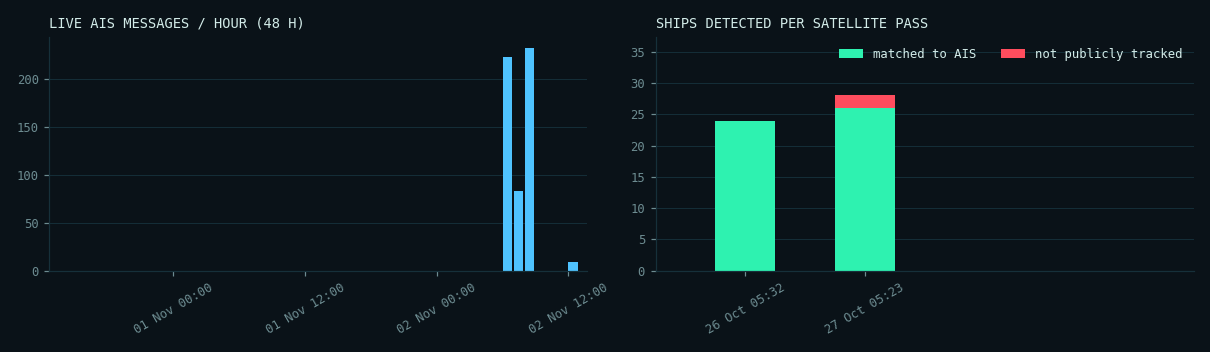
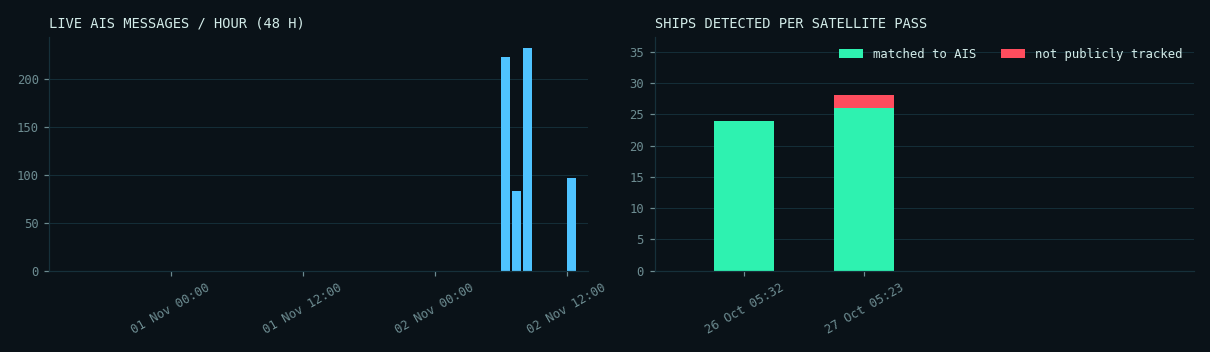
Automatic site update 2026-11-02 12:57 UTC

diff --git a/docs/denmark/index.html b/docs/denmark/index.html
@@ -83,13 +83,13 @@ footer{border-top:1px solid var(--line);padding:18px 0 28px;font:12px/1.6 var(--
   <div><div class="kicker">SAR &times; AIS &middot; MARITIME AWARENESS</div><div class="title">DARK VESSEL <b>DETECTION</b></div></div></a>
  <div class="status"><span class="pill"><span class="dot live"></span>AIS FEED <strong>LIVE</strong></span>
   <span class="pill">UTC <strong id="utc">--:--:--</strong></span>
-  <span class="pill">UPDATED <strong>02 Nov 12:42</strong></span></div>
+  <span class="pill">UPDATED <strong>02 Nov 12:58</strong></span></div>
 </div><nav class="tabs"><a class="" href="../index.html">OVERVIEW</a><a class="" href="../mumbai/index.html">MUMBAI</a><a class="on" href="../denmark/index.html">DENMARK</a><a class="" href="../nn/index.html">NEURAL NET</a><a class="" href="../demo/index.html">SIMULATION</a></nav></div></header>
 <main class="wrap"><div class="coords">SECTOR // DENMARK &middot; 55.55&ndash;55.85&deg;N &middot; 12.55&ndash;12.95&deg;E</div>
 <h1>Oresund, Copenhagen (Denmark/Sweden)</h1><p class="lede">Validation area. Sentinel-1 images it almost daily and coastal AIS coverage is dense, so the full match between radar and AIS can be shown and checked.</p>
 <div class="grid">
  <div class="panel"><div class="label">Live AIS feed</div><div class="value small"><span class='ok'>RECEIVING</span></div><div class="muted mono" style="font-size:12px;margin-top:6px">last message 0 min ago</div></div>
- <div class="panel"><div class="label">Ships broadcasting &middot; 30 min</div><div class="value cyan">9</div></div>
+ <div class="panel"><div class="label">Ships broadcasting &middot; 30 min</div><div class="value cyan">50</div></div>
  <div class="panel"><div class="label">Matched &middot; latest pass</div><div class="value ">26</div></div>
  <div class="panel"><div class="label">Not tracked &middot; high confidence</div><div class="value red">0</div></div>
  <div class="panel"><div class="label">Not tracked &middot; low confidence</div><div class="value amber">2</div></div>
@@ -98,7 +98,7 @@ footer{border-top:1px solid var(--line);padding:18px 0 28px;font:12px/1.6 var(--
 <div class="legend"><span><i style="background:var(--green)"></i>matched to AIS</span><span><i style="background:var(--red)"></i>not tracked &middot; high confidence</span>
 <span><i style="background:var(--amber)"></i>not tracked &middot; low confidence</span><span><i style="background:var(--cyan)"></i>live AIS position</span></div>
 <div id="map" class="map"></div><script>
-const D=[{"lon": 12.574560869565218, "lat": 55.849597826086956, "length_m": 72.681575622935, "score": 0.6554655519501138, "shore_km": 0.14150886088341372, "status": "matched", "reason": "", "confidence": "high", "crop": "", "ship_prob": 0.9335045218467712}, {"lon": 12.704759174311928, "lat": 55.82280412844037, "length_m": 364.1071436957287, "score": 0.9904753373251979, "shore_km": 9.407061429825474, "status": "matched", "reason": "", "confidence": "high", "crop": "", "ship_prob": 0.9868959784507751}, {"lon": 12.786416463414636, "lat": 55.804669512195126, "length_m": 155.0522474362954, "score": 0.9999646038759398, "shore_km": 4.658419014138412, "status": "matched", "reason": "", "confidence": "high", "crop": "", "ship_prob": 0.9993557333946228}, {"lon": 12.88229375, "lat": 55.849146875, "length_m": 53.38783327710226, "score": 0.9899546194309776, "shore_km": 0.9067240720863213, "status": "candidate", "reason": "same_spot_in_another_pass", "confidence": "low", "crop": "crops/S1-Oresund-20261027_37.png", "ship_prob": 0.7905591130256653}, {"lon": 12.604004166666668, "lat": 55.75985, "length_m": 141.84238362073958, "score": 0.6867268898684522, "shore_km": 0.07168283192738693, "status": "matched", "reason": "", "confidence": "high", "crop": "", "ship_prob": 0.5051270127296448}, {"lon": 12.605736764705883, "lat": 55.75241323529412, "length_m": 122.11483240811877, "score": 0.9136889320646264, "shore_km": 0.6454382429486746, "status": "candidate", "reason": "same_spot_in_another_pass", "confidence": "low", "crop": "crops/S1-Oresund-20261027_77.png", "ship_prob": 0.7927113175392151}, {"lon": 12.703722571428573, "lat": 55.77917742857143, "length_m": 223.0817648726515, "score": 0.9996320924909895, "shore_km": 5.943270442766068, "status": "matched", "reason": "", "confidence": "high", "crop": "", "ship_prob": 0.9938097596168518}, {"lon": 12.902757692307693, "lat": 55.75654230769231, "length_m": 65.46226537445588, "score": 0.7187896049600956, "shore_km": 0.03584141596369347, "status": "matched", "reason": "", "confidence": "high", "crop": "", "ship_prob": 0.8691755533218384}, {"lon": 12.589922222222222, "lat": 55.725764814814816, "length_m": 146.45480845096748, "score": 0.9957587025210503, "shore_km": 0.034771280891766385, "status": "matched", "reason": "", "confidence": "high", "crop": "", "ship_prob": 0.9983701109886169}, {"lon": 12.598472047244096, "lat": 55.72077913385827, "length_m": 207.62671185403417, "score": 0.609772230082722, "shore_km": 0.14016751439395445, "status": "matched", "reason": "", "confidence": "high", "crop": "", "ship_prob": 0.6074324250221252}, {"lon": 12.589218, "lat": 55.712854, "length_m": 90.49550243938293, "score": 0.6486089656085543, "shore_km": 0.043464101114707984, "status": "matched", "reason": "", "confidence": "high", "crop": "", "ship_prob": 0.9998902082443237}, {"lon": 12.59024090909091, "lat": 55.71147090909091, "length_m": 162.54265478639104, "score": 1.0, "shore_km": 0.06146752127277559, "status": "matched", "reason": "", "confidence": "high", "crop": "", "ship_prob": 0.9999992847442627}, {"lon": 12.597835937500001, "lat": 55.701648437500005, "length_m": 133.31776511703256, "score": 0.9396217092764791, "shore_km": 0.06789309632894441, "status": "matched", "reason": "", "confidence": "high", "crop": "", "ship_prob": 0.9999727010726929}, {"lon": 12.60914, "lat": 55.69712, "length_m": 65.36743236464424, "score": 0.7827588237578229, "shore_km": 0.03134240904220623, "status": "matched", "reason": "", "confidence": "high", "crop": "", "ship_prob": 0.9867132902145386}, {"lon": 12.668552272727274, "lat": 55.72007840909091, "length_m": 207.26605497726354, "score": 0.6251792307103263, "shore_km": 0.03584141596369347, "status": "matched", "reason": "", "confidence": "high", "crop": "", "ship_prob": 0.9087074398994446}, {"lon": 12.5996, "lat": 55.68885, "length_m": 40.00855981470757, "score": 0.7664068666153926, "shore_km": 0.024587008509110237, "status": "matched", "reason": "", "confidence": "high", "crop": "", "ship_prob": 0.9766618013381958}, {"lon": 12.595819230769232, "lat": 55.67989871794872, "length_m": 127.62371588738732, "score": 0.9426870407335851, "shore_km": 0.05068741655051085, "status": "matched", "reason": "", "confidence": "high", "crop": "", "ship_prob": 0.9998841285705566}, {"lon": 12.594722222222224, "lat": 55.67918888888889, "length_m": 40.64467714079742, "score": 0.7639524834029205, "shore_km": 0.043464101114707984, "status": "matched", "reason": "", "confidence": "high", "crop": "", "ship_prob": 0.9999454021453857}, {"lon": 12.610660714285714, "lat": 55.69618571428572, "length_m": 94.51225356515693, "score": 0.9621795096736379, "shore_km": 0.03134240904220623, "status": "matched", "reason": "", "confidence": "high", "crop": "", "ship_prob": 0.999042809009552}, {"lon": 12.649045000000001, "lat": 55.692155, "length_m": 80.63364746000343, "score": 0.8515033668168979, "shore_km": 0.8863693295037299, "status": "matched", "reason": "", "confidence": "high", "crop": "", "ship_prob": 0.4333752989768982}, {"lon": 12.630751724137932, "lat": 55.685453448275865, "length_m": 125.00287123881988, "score": 0.93629426700422, "shore_km": 0.043464101114707984, "status": "matched", "reason": "", "confidence": "high", "crop": "", "ship_prob": 0.9975905418395996}, {"lon": 12.634987254901962, "lat": 55.677338235294116, "length_m": 276.5478352749318, "score": 0.7686103584091717, "shore_km": 0.024587008509110237, "status": "matched", "reason": "", "confidence": "high", "crop": "", "ship_prob": 0.9729636907577515}, {"lon": 12.68766150442478, "lat": 55.69581814159292, "length_m": 176.8074930452176, "score": 0.923202226335388, "shore_km": 2.6834920471942074, "status": "matched", "reason": "", "confidence": "high", "crop": "", "ship_prob": 0.8427141904830933}, {"lon": 12.65826847826087, "lat": 55.63610108695652, "length_m": 174.21377549767067, "score": 0.9833187000337672, "shore_km": 0.043464101114707984, "status": "matched", "reason": "", "confidence": "high", "crop": "", "ship_prob": 0.9998973608016968}, {"lon": 12.680683333333334, "lat": 55.610910000000004, "length_m": 74.22790892756812, "score": 0.6314184609397504, "shore_km": 0.03134240904220623, "status": "matched", "reason": "", "confidence": "high", "crop": "", "ship_prob": 0.44054293632507324}, {"lon": 12.868352132196163, "lat": 55.60022420042644, "length_m": 299.20726350177785, "score": 0.9999960398718075, "shore_km": 2.8169298200726325, "status": "matched", "reason": "", "confidence": "high", "crop": "", "ship_prob": 0.9967911839485168}, {"lon": 12.680875, "lat": 55.59323, "length_m": 95.51211981545671, "score": 0.7585723176580392, "shore_km": 0.03584141596369347, "status": "matched", "reason": "", "confidence": "high", "crop": "", "ship_prob": 0.797581672668457}, {"lon": 12.706387741935485, "lat": 55.56306903225806, "length_m": 301.4640427512081, "score": 0.9999731380181186, "shore_km": 3.1965238712919084, "status": "matched", "reason": "", "confidence": "high", "crop": "", "ship_prob": 0.9941650032997131}],LIVE=[{"lon": 12.823661666666668, "lat": 55.866413333333334, "sog": 0.1, "age": 1}, {"lon": 12.996228333333333, "lat": 55.62329, "sog": 0.0, "age": 0}, {"lon": 12.698755, "lat": 55.60193, "sog": 12.8, "age": 0}, {"lon": 12.730118333333333, "lat": 55.703245, "sog": 0.0, "age": 0}, {"lon": 12.744415, "lat": 55.99327666666667, "sog": 0.0, "age": 0}, {"lon": 12.6379, "lat": 55.888391666666664, "sog": 6.5, "age": 0}, {"lon": 12.572771666666666, "lat": 55.85082833333333, "sog": 0.0, "age": 0}, {"lon": 12.653413333333333, "lat": 55.876268333333336, "sog": 9.0, "age": 0}, {"lon": 12.693898333333333, "lat": 55.57119, "sog": 20.0, "age": 0}],B=[[55.55,12.55],[55.85,12.95]];const m=L.map('map',{zoomSnap:.25}).fitBounds(B);
+const D=[{"lon": 12.574560869565218, "lat": 55.849597826086956, "length_m": 72.681575622935, "score": 0.6554655519501138, "shore_km": 0.14150886088341372, "status": "matched", "reason": "", "confidence": "high", "crop": "", "ship_prob": 0.9335045218467712}, {"lon": 12.704759174311928, "lat": 55.82280412844037, "length_m": 364.1071436957287, "score": 0.9904753373251979, "shore_km": 9.407061429825474, "status": "matched", "reason": "", "confidence": "high", "crop": "", "ship_prob": 0.9868959784507751}, {"lon": 12.786416463414636, "lat": 55.804669512195126, "length_m": 155.0522474362954, "score": 0.9999646038759398, "shore_km": 4.658419014138412, "status": "matched", "reason": "", "confidence": "high", "crop": "", "ship_prob": 0.9993557333946228}, {"lon": 12.88229375, "lat": 55.849146875, "length_m": 53.38783327710226, "score": 0.9899546194309776, "shore_km": 0.9067240720863213, "status": "candidate", "reason": "same_spot_in_another_pass", "confidence": "low", "crop": "crops/S1-Oresund-20261027_37.png", "ship_prob": 0.7905591130256653}, {"lon": 12.604004166666668, "lat": 55.75985, "length_m": 141.84238362073958, "score": 0.6867268898684522, "shore_km": 0.07168283192738693, "status": "matched", "reason": "", "confidence": "high", "crop": "", "ship_prob": 0.5051270127296448}, {"lon": 12.605736764705883, "lat": 55.75241323529412, "length_m": 122.11483240811877, "score": 0.9136889320646264, "shore_km": 0.6454382429486746, "status": "candidate", "reason": "same_spot_in_another_pass", "confidence": "low", "crop": "crops/S1-Oresund-20261027_77.png", "ship_prob": 0.7927113175392151}, {"lon": 12.703722571428573, "lat": 55.77917742857143, "length_m": 223.0817648726515, "score": 0.9996320924909895, "shore_km": 5.943270442766068, "status": "matched", "reason": "", "confidence": "high", "crop": "", "ship_prob": 0.9938097596168518}, {"lon": 12.902757692307693, "lat": 55.75654230769231, "length_m": 65.46226537445588, "score": 0.7187896049600956, "shore_km": 0.03584141596369347, "status": "matched", "reason": "", "confidence": "high", "crop": "", "ship_prob": 0.8691755533218384}, {"lon": 12.589922222222222, "lat": 55.725764814814816, "length_m": 146.45480845096748, "score": 0.9957587025210503, "shore_km": 0.034771280891766385, "status": "matched", "reason": "", "confidence": "high", "crop": "", "ship_prob": 0.9983701109886169}, {"lon": 12.598472047244096, "lat": 55.72077913385827, "length_m": 207.62671185403417, "score": 0.609772230082722, "shore_km": 0.14016751439395445, "status": "matched", "reason": "", "confidence": "high", "crop": "", "ship_prob": 0.6074324250221252}, {"lon": 12.589218, "lat": 55.712854, "length_m": 90.49550243938293, "score": 0.6486089656085543, "shore_km": 0.043464101114707984, "status": "matched", "reason": "", "confidence": "high", "crop": "", "ship_prob": 0.9998902082443237}, {"lon": 12.59024090909091, "lat": 55.71147090909091, "length_m": 162.54265478639104, "score": 1.0, "shore_km": 0.06146752127277559, "status": "matched", "reason": "", "confidence": "high", "crop": "", "ship_prob": 0.9999992847442627}, {"lon": 12.597835937500001, "lat": 55.701648437500005, "length_m": 133.31776511703256, "score": 0.9396217092764791, "shore_km": 0.06789309632894441, "status": "matched", "reason": "", "confidence": "high", "crop": "", "ship_prob": 0.9999727010726929}, {"lon": 12.60914, "lat": 55.69712, "length_m": 65.36743236464424, "score": 0.7827588237578229, "shore_km": 0.03134240904220623, "status": "matched", "reason": "", "confidence": "high", "crop": "", "ship_prob": 0.9867132902145386}, {"lon": 12.668552272727274, "lat": 55.72007840909091, "length_m": 207.26605497726354, "score": 0.6251792307103263, "shore_km": 0.03584141596369347, "status": "matched", "reason": "", "confidence": "high", "crop": "", "ship_prob": 0.9087074398994446}, {"lon": 12.5996, "lat": 55.68885, "length_m": 40.00855981470757, "score": 0.7664068666153926, "shore_km": 0.024587008509110237, "status": "matched", "reason": "", "confidence": "high", "crop": "", "ship_prob": 0.9766618013381958}, {"lon": 12.595819230769232, "lat": 55.67989871794872, "length_m": 127.62371588738732, "score": 0.9426870407335851, "shore_km": 0.05068741655051085, "status": "matched", "reason": "", "confidence": "high", "crop": "", "ship_prob": 0.9998841285705566}, {"lon": 12.594722222222224, "lat": 55.67918888888889, "length_m": 40.64467714079742, "score": 0.7639524834029205, "shore_km": 0.043464101114707984, "status": "matched", "reason": "", "confidence": "high", "crop": "", "ship_prob": 0.9999454021453857}, {"lon": 12.610660714285714, "lat": 55.69618571428572, "length_m": 94.51225356515693, "score": 0.9621795096736379, "shore_km": 0.03134240904220623, "status": "matched", "reason": "", "confidence": "high", "crop": "", "ship_prob": 0.999042809009552}, {"lon": 12.649045000000001, "lat": 55.692155, "length_m": 80.63364746000343, "score": 0.8515033668168979, "shore_km": 0.8863693295037299, "status": "matched", "reason": "", "confidence": "high", "crop": "", "ship_prob": 0.4333752989768982}, {"lon": 12.630751724137932, "lat": 55.685453448275865, "length_m": 125.00287123881988, "score": 0.93629426700422, "shore_km": 0.043464101114707984, "status": "matched", "reason": "", "confidence": "high", "crop": "", "ship_prob": 0.9975905418395996}, {"lon": 12.634987254901962, "lat": 55.677338235294116, "length_m": 276.5478352749318, "score": 0.7686103584091717, "shore_km": 0.024587008509110237, "status": "matched", "reason": "", "confidence": "high", "crop": "", "ship_prob": 0.9729636907577515}, {"lon": 12.68766150442478, "lat": 55.69581814159292, "length_m": 176.8074930452176, "score": 0.923202226335388, "shore_km": 2.6834920471942074, "status": "matched", "reason": "", "confidence": "high", "crop": "", "ship_prob": 0.8427141904830933}, {"lon": 12.65826847826087, "lat": 55.63610108695652, "length_m": 174.21377549767067, "score": 0.9833187000337672, "shore_km": 0.043464101114707984, "status": "matched", "reason": "", "confidence": "high", "crop": "", "ship_prob": 0.9998973608016968}, {"lon": 12.680683333333334, "lat": 55.610910000000004, "length_m": 74.22790892756812, "score": 0.6314184609397504, "shore_km": 0.03134240904220623, "status": "matched", "reason": "", "confidence": "high", "crop": "", "ship_prob": 0.44054293632507324}, {"lon": 12.868352132196163, "lat": 55.60022420042644, "length_m": 299.20726350177785, "score": 0.9999960398718075, "shore_km": 2.8169298200726325, "status": "matched", "reason": "", "confidence": "high", "crop": "", "ship_prob": 0.9967911839485168}, {"lon": 12.680875, "lat": 55.59323, "length_m": 95.51211981545671, "score": 0.7585723176580392, "shore_km": 0.03584141596369347, "status": "matched", "reason": "", "confidence": "high", "crop": "", "ship_prob": 0.797581672668457}, {"lon": 12.706387741935485, "lat": 55.56306903225806, "length_m": 301.4640427512081, "score": 0.9999731380181186, "shore_km": 3.1965238712919084, "status": "matched", "reason": "", "confidence": "high", "crop": "", "ship_prob": 0.9941650032997131}],LIVE=[{"lon": 12.996228333333333, "lat": 55.62329, "sog": 0.0, "age": 16}, {"lon": 12.830413333333333, "lat": 55.85599666666667, "sog": 0.0, "age": 15}, {"lon": 12.832898333333333, "lat": 55.85851, "sog": 0.0, "age": 15}, {"lon": 12.990338333333334, "lat": 55.62685333333333, "sog": 0.0, "age": 14}, {"lon": 12.502345, "lat": 55.61085666666667, "sog": 2.8, "age": 14}, {"lon": 12.719368333333334, "lat": 55.754315, "sog": 0.0, "age": 13}, {"lon": 12.638415, "lat": 55.884505, "sog": 6.7, "age": 13}, {"lon": 12.480858333333334, "lat": 55.60676333333333, "sog": 0.0, "age": 13}, {"lon": 12.744426666666667, "lat": 55.993296666666666, "sog": 0.0, "age": 13}, {"lon": 12.701091666666667, "lat": 55.51907833333333, "sog": 7.8, "age": 12}, {"lon": 12.828323333333334, "lat": 55.86138166666667, "sog": 0.0, "age": 12}, {"lon": 12.67691, "lat": 55.59394666666667, "sog": 0.0, "age": 12}, {"lon": 12.598645, "lat": 55.710765, "sog": 0.0, "age": 12}, {"lon": 12.828776666666666, "lat": 55.85998, "sog": 0.0, "age": 6}, {"lon": 12.83193, "lat": 55.85404333333334, "sog": 0.0, "age": 6}, {"lon": 12.989866666666668, "lat": 55.62728333333334, "sog": 0.0, "age": 6}, {"lon": 12.646905, "lat": 55.67737833333333, "sog": 0.0, "age": 5}, {"lon": 13.020836666666666, "lat": 55.635345, "sog": 0.0, "age": 5}, {"lon": 13.05851, "lat": 55.67565333333334, "sog": 0.0, "age": 4}, {"lon": 12.999795, "lat": 55.61836666666667, "sog": 0.0, "age": 4}, {"lon": 12.835011666666666, "lat": 55.85982333333333, "sog": 0.2, "age": 4}, {"lon": 12.695631666666666, "lat": 55.47009833333333, "sog": 11.0, "age": 4}, {"lon": 12.59949, "lat": 55.710591666666666, "sog": 0.0, "age": 4}, {"lon": 12.705350000000001, "lat": 55.558186666666664, "sog": 12.8, "age": 3}, {"lon": 12.60354, "lat": 55.76058833333333, "sog": 0.0, "age": 3}, {"lon": 12.680061666666667, "lat": 55.59288, "sog": 0.0, "age": 3}, {"lon": 12.67612, "lat": 55.59363, "sog": 0.0, "age": 2}, {"lon": 12.630695, "lat": 55.68980333333333, "sog": 0.0, "age": 2}, {"lon": 12.70927, "lat": 55.461915, "sog": 10.8, "age": 2}, {"lon": 12.66247, "lat": 55.844561666666664, "sog": 8.5, "age": 2}, {"lon": 12.824866666666667, "lat": 55.86593333333334, "sog": 0.0, "age": 2}, {"lon": 12.744433333333335, "lat": 55.993225, "sog": 0.1, "age": 2}, {"lon": 12.572758333333333, "lat": 55.850825, "sog": 0.0, "age": 2}, {"lon": 12.64328, "lat": 55.67908, "sog": 0.1, "age": 2}, {"lon": 12.922258333333334, "lat": 55.608444999999996, "sog": 24.3, "age": 2}, {"lon": 12.9392, "lat": 55.66875666666667, "sog": 11.5, "age": 2}, {"lon": 12.935475, "lat": 55.69256333333333, "sog": 0.0, "age": 2}, {"lon": 12.625285, "lat": 55.69106, "sog": 0.0, "age": 1}, {"lon": 12.833266666666667, "lat": 55.8559, "sog": 0.0, "age": 1}, {"lon": 12.720936666666667, "lat": 55.70237833333333, "sog": 6.9, "age": 0}, {"lon": 12.48246, "lat": 55.6014, "sog": 0.0, "age": 0}, {"lon": 12.677548333333334, "lat": 55.934713333333335, "sog": 0.0, "age": 0}, {"lon": 12.825346666666666, "lat": 55.865505, "sog": 0.0, "age": 0}, {"lon": 12.490216666666667, "lat": 55.517925, "sog": 0.0, "age": 0}, {"lon": 12.833716666666668, "lat": 55.855716666666666, "sog": 0.0, "age": 0}, {"lon": 13.033805, "lat": 55.62455333333333, "sog": 0.0, "age": 0}, {"lon": 12.684249999999999, "lat": 55.943086666666666, "sog": 0.0, "age": 0}, {"lon": 12.823631666666667, "lat": 55.86645166666666, "sog": 0.1, "age": 0}, {"lon": 12.680190000000001, "lat": 55.592825, "sog": 0.0, "age": 0}, {"lon": 12.481701666666668, "lat": 55.60067333333333, "sog": 0.0, "age": 0}],B=[[55.55,12.55],[55.85,12.95]];const m=L.map('map',{zoomSnap:.25}).fitBounds(B);
 // re-fit once layout has settled: if the container had no size when the map was created, Leaflet falls back to zoom 0
 const refit=()=>{m.invalidateSize();m.fitBounds(B);};setTimeout(refit,0);window.addEventListener('load',refit);
 // standard OSM tiles (no API key), turned into a dark "radar console" basemap with a CSS filter (.radar-tiles)
@@ -116,7 +116,7 @@ L.control.layers(null,{'Radar detections (selected pass)':det,'Live AIS, last 30
 </script>
 <h2>Pass log</h2><div class='tablewrap'><table><thead><tr><th>pass (UTC)</th><th>ships</th><th>matched</th><th>not tracked</th><th>low conf.</th><th>match rate</th><th>AIS msgs</th></tr></thead><tbody><tr><td>2026-10-27 05:23 UTC</td><td>28</td><td class='ok'>26</td><td class='bad'>0</td><td style='color:var(--amber)'>2</td><td>93%</td><td>10687</td></tr><tr><td>2026-10-26 05:32 UTC</td><td>24</td><td class='ok'>24</td><td class='bad'>0</td><td style='color:var(--amber)'>0</td><td>100%</td><td>11603</td></tr></tbody></table></div>
 <h2>Telemetry</h2><img class="chart" src="charts.png" alt="AIS messages per hour and ships detected per pass">
-<p class="muted mono" style="font-size:12px">Feed gaps in the last 24 h: 3 (316 min) &middot; AIS messages in the last hour: 9</p>
+<p class="muted mono" style="font-size:12px">Feed gaps in the last 24 h: 4 (322 min) &middot; AIS messages in the last hour: 96</p>
 <h2>Recent Sentinel-1 acquisitions</h2><ul class="acq"><li>2026-11-02 05:23 UTC</li><li>2026-11-01 16:44 UTC</li><li>2026-11-01 05:31 UTC</li><li>2026-10-31 16:52 UTC</li><li>2026-10-30 17:00 UTC</li><li>2026-10-27 05:23 UTC</li><li>2026-10-26 05:32 UTC</li><li>2026-10-25 16:52 UTC</li></ul></main>
 <footer><div class="wrap">Data: Copernicus Sentinel-1 (ESA) &middot; AIS via aisstream.io and the Danish Maritime Authority &middot;
 coastlines, structures and basemap &copy; OpenStreetMap contributors. Flags are candidates for review, not accusations.</div></footer>

diff --git a/docs/index.html b/docs/index.html
@@ -83,7 +83,7 @@ footer{border-top:1px solid var(--line);padding:18px 0 28px;font:12px/1.6 var(--
   <div><div class="kicker">SAR &times; AIS &middot; MARITIME AWARENESS</div><div class="title">DARK VESSEL <b>DETECTION</b></div></div></a>
  <div class="status"><span class="pill"><span class="dot live"></span>AIS FEED <strong>LIVE</strong></span>
   <span class="pill">UTC <strong id="utc">--:--:--</strong></span>
-  <span class="pill">UPDATED <strong>02 Nov 12:42</strong></span></div>
+  <span class="pill">UPDATED <strong>02 Nov 12:58</strong></span></div>
 </div><nav class="tabs"><a class="on" href="index.html">OVERVIEW</a><a class="" href="mumbai/index.html">MUMBAI</a><a class="" href="denmark/index.html">DENMARK</a><a class="" href="nn/index.html">NEURAL NET</a><a class="" href="demo/index.html">SIMULATION</a></nav></div></header>
 <main class="wrap"><div class="coords">SYSTEM OVERVIEW</div>
 <h1>Ships the radar sees that nobody is tracking</h1>
@@ -91,7 +91,7 @@ footer{border-top:1px solid var(--line);padding:18px 0 28px;font:12px/1.6 var(--
 This system compares the two for each processed Sentinel-1 pass and lists the ships that appear on radar with no matching AIS signal.</p>
 <div class="grid" style="margin-top:18px"><div class="panel"><div class="label">Satellite passes processed</div><div class="value ">3</div></div><div class="panel"><div class="label">Ships matched to AIS</div><div class="value ">50</div></div>
 <div class="panel"><div class="label">Not tracked &middot; high confidence</div><div class="value red">0</div></div><div class="panel"><div class="label">Not tracked &middot; low confidence</div><div class="value amber">117</div></div>
-<div class="panel"><div class="label">Broadcasting now &middot; 30 min</div><div class="value cyan">9</div></div></div>
+<div class="panel"><div class="label">Broadcasting now &middot; 30 min</div><div class="value cyan">50</div></div></div>
 <p class="muted" style="font-size:13px;margin-top:10px"><b>High confidence</b> = no AIS ship nearby although the AIS feed was healthy and the
 target is within receiver range, and it is not at a spot where something was also seen on another pass. Everything else is
 <b>low confidence</b>: the data cannot support calling it dark (for example Mumbai, where no AIS was available for the pass at all).</p>
@@ -112,14 +112,14 @@ watching the catalogue for new passes and processing them automatically is the n
 <div class="kv"><span>ships matched to AIS</span><span class="ok">50</span></div>
 <div class="kv"><span>not tracked, high confidence</span><span class="bad">0</span></div>
 <div class="kv"><span>not tracked, low confidence</span><span style="color:var(--amber)">2</span></div>
-<div class="kv"><span>broadcasting now (30 min)</span><span style="color:var(--cyan)">9</span></div>
+<div class="kv"><span>broadcasting now (30 min)</span><span style="color:var(--cyan)">50</span></div>
 <div class="go">OPEN SECTOR &rarr;</div></a></div>
 <h2>Read before trusting a flag</h2>
 <div class="alert"><b>"Not publicly tracked" is not "switched off".</b> Small boats often carry no public AIS, free AIS comes from coastal
 receivers with limited range, and ships under about 40 m are not reliably visible to the satellite. Low-confidence flags are the ones the
 data cannot support: beyond receiver range, during an AIS feed gap, or with no AIS recorded.</div>
 <h2>Automatic runs</h2><p class="muted mono" style="font-size:12.5px;margin-top:-4px">Each row is one automatic website rebuild, with the live AIS counts at that moment. Newest first.</p>
-<div class="tablewrap"><table><thead><tr><th>run (UTC)</th><th>mumbai live</th><th>mumbai msg/h</th><th>denmark live</th><th>denmark msg/h</th></tr></thead><tbody><tr><td>2026-11-02 12:42</td><td>0</td><td>0</td><td>9</td><td>9</td></tr><tr><td>2026-11-02 08:09</td><td>0</td><td>0</td><td>62</td><td>171</td></tr><tr><td>2026-11-02 07:53</td><td>0</td><td>0</td><td>19</td><td>49</td></tr><tr><td>2026-11-02 07:39</td><td>0</td><td>0</td><td>0</td><td>166</td></tr><tr><td>2026-11-02 07:27</td><td>0</td><td>0</td><td>0</td><td>222</td></tr><tr><td>2026-11-02 06:48</td><td>0</td><td>0</td><td>58</td><td>148</td></tr><tr><td>2026-11-02 06:33</td><td>0</td><td>0</td><td>5</td><td>6</td></tr><tr><td>2026-11-02 06:29</td><td>0</td><td>0</td><td>0</td><td>0</td></tr><tr><td>2026-11-02 06:25</td><td>0</td><td>0</td><td>0</td><td>0</td></tr><tr><td>2026-11-02 06:20</td><td>0</td><td>0</td><td>0</td><td>0</td></tr><tr><td>2026-11-02 06:10</td><td>0</td><td>0</td><td>0</td><td>0</td></tr><tr><td>2026-11-02 05:55</td><td>0</td><td>0</td><td>36</td><td>341</td></tr><tr><td>2026-11-02 05:40</td><td>0</td><td>0</td><td>38</td><td>353</td></tr><tr><td>2026-11-02 05:24</td><td>0</td><td>0</td><td>35</td><td>311</td></tr><tr><td>2026-11-02 05:09</td><td>0</td><td>0</td><td>36</td><td>222</td></tr><tr><td>2026-11-02 04:54</td><td>0</td><td>0</td><td>36</td><td>144</td></tr><tr><td>2026-11-02 04:50</td><td>0</td><td>0</td><td>33</td><td>110</td></tr><tr><td>2026-11-02 04:49</td><td>0</td><td>0</td><td>33</td><td>110</td></tr><tr><td>2026-11-02 04:49</td><td>0</td><td>0</td><td>32</td><td>108</td></tr><tr><td>2026-11-02 04:48</td><td>0</td><td>0</td><td>32</td><td>106</td></tr><tr><td>2026-11-02 04:47</td><td>0</td><td>0</td><td>32</td><td>104</td></tr><tr><td>2026-11-02 04:47</td><td>0</td><td>0</td><td>32</td><td>98</td></tr><tr><td>2026-11-02 04:27</td><td>0</td><td>0</td><td>6</td><td>6</td></tr><tr><td>2026-11-02 04:26</td><td>0</td><td>0</td><td>4</td><td>4</td></tr></tbody></table></div></main>
+<div class="tablewrap"><table><thead><tr><th>run (UTC)</th><th>mumbai live</th><th>mumbai msg/h</th><th>denmark live</th><th>denmark msg/h</th></tr></thead><tbody><tr><td>2026-11-02 12:58</td><td>0</td><td>0</td><td>50</td><td>96</td></tr><tr><td>2026-11-02 12:42</td><td>0</td><td>0</td><td>9</td><td>9</td></tr><tr><td>2026-11-02 08:09</td><td>0</td><td>0</td><td>62</td><td>171</td></tr><tr><td>2026-11-02 07:53</td><td>0</td><td>0</td><td>19</td><td>49</td></tr><tr><td>2026-11-02 07:39</td><td>0</td><td>0</td><td>0</td><td>166</td></tr><tr><td>2026-11-02 07:27</td><td>0</td><td>0</td><td>0</td><td>222</td></tr><tr><td>2026-11-02 06:48</td><td>0</td><td>0</td><td>58</td><td>148</td></tr><tr><td>2026-11-02 06:33</td><td>0</td><td>0</td><td>5</td><td>6</td></tr><tr><td>2026-11-02 06:29</td><td>0</td><td>0</td><td>0</td><td>0</td></tr><tr><td>2026-11-02 06:25</td><td>0</td><td>0</td><td>0</td><td>0</td></tr><tr><td>2026-11-02 06:20</td><td>0</td><td>0</td><td>0</td><td>0</td></tr><tr><td>2026-11-02 06:10</td><td>0</td><td>0</td><td>0</td><td>0</td></tr><tr><td>2026-11-02 05:55</td><td>0</td><td>0</td><td>36</td><td>341</td></tr><tr><td>2026-11-02 05:40</td><td>0</td><td>0</td><td>38</td><td>353</td></tr><tr><td>2026-11-02 05:24</td><td>0</td><td>0</td><td>35</td><td>311</td></tr><tr><td>2026-11-02 05:09</td><td>0</td><td>0</td><td>36</td><td>222</td></tr><tr><td>2026-11-02 04:54</td><td>0</td><td>0</td><td>36</td><td>144</td></tr><tr><td>2026-11-02 04:50</td><td>0</td><td>0</td><td>33</td><td>110</td></tr><tr><td>2026-11-02 04:49</td><td>0</td><td>0</td><td>33</td><td>110</td></tr><tr><td>2026-11-02 04:49</td><td>0</td><td>0</td><td>32</td><td>108</td></tr><tr><td>2026-11-02 04:48</td><td>0</td><td>0</td><td>32</td><td>106</td></tr><tr><td>2026-11-02 04:47</td><td>0</td><td>0</td><td>32</td><td>104</td></tr><tr><td>2026-11-02 04:47</td><td>0</td><td>0</td><td>32</td><td>98</td></tr><tr><td>2026-11-02 04:27</td><td>0</td><td>0</td><td>6</td><td>6</td></tr></tbody></table></div></main>
 <footer><div class="wrap">Data: Copernicus Sentinel-1 (ESA) &middot; AIS via aisstream.io and the Danish Maritime Authority &middot;
 coastlines, structures and basemap &copy; OpenStreetMap contributors. Flags are candidates for review, not accusations.</div></footer>
 <script>(function(){const e=document.getElementById('utc');const t=()=>e.textContent=new Date().toISOString().slice(11,19);t();setInterval(t,1000);})();</script>

diff --git a/docs/mumbai/index.html b/docs/mumbai/index.html
@@ -83,7 +83,7 @@ footer{border-top:1px solid var(--line);padding:18px 0 28px;font:12px/1.6 var(--
   <div><div class="kicker">SAR &times; AIS &middot; MARITIME AWARENESS</div><div class="title">DARK VESSEL <b>DETECTION</b></div></div></a>
  <div class="status"><span class="pill"><span class="dot live"></span>AIS FEED <strong>LIVE</strong></span>
   <span class="pill">UTC <strong id="utc">--:--:--</strong></span>
-  <span class="pill">UPDATED <strong>02 Nov 12:42</strong></span></div>
+  <span class="pill">UPDATED <strong>02 Nov 12:57</strong></span></div>
 </div><nav class="tabs"><a class="" href="../index.html">OVERVIEW</a><a class="on" href="../mumbai/index.html">MUMBAI</a><a class="" href="../denmark/index.html">DENMARK</a><a class="" href="../nn/index.html">NEURAL NET</a><a class="" href="../demo/index.html">SIMULATION</a></nav></div></header>
 <main class="wrap"><div class="coords">SECTOR // MUMBAI &middot; 18.80&ndash;19.10&deg;N &middot; 72.55&ndash;72.95&deg;E</div>
 <h1>Mumbai coast and harbour, India</h1><p class="lede">The project's target area. Sentinel-1 images it about once every 12 days, and free AIS comes only from coastal receivers, so many unmatched ships here are simply out of receiver range.</p>
@@ -116,7 +116,7 @@ L.control.layers(null,{'Radar detections (selected pass)':det,'Live AIS, last 30
 </script>
 <h2>Pass log</h2><div class='tablewrap'><table><thead><tr><th>pass (UTC)</th><th>ships</th><th>matched</th><th>not tracked</th><th>low conf.</th><th>match rate</th><th>AIS msgs</th></tr></thead><tbody><tr><td>2026-10-24 01:02 UTC</td><td>115</td><td class='ok'>0</td><td class='bad'>0</td><td style='color:var(--amber)'>115</td><td>0%</td><td>0</td></tr></tbody></table></div>
 <h2>Telemetry</h2><img class="chart" src="charts.png" alt="AIS messages per hour and ships detected per pass">
-<p class="muted mono" style="font-size:12px">Feed gaps in the last 24 h: 3 (316 min) &middot; AIS messages in the last hour: 0</p>
+<p class="muted mono" style="font-size:12px">Feed gaps in the last 24 h: 4 (322 min) &middot; AIS messages in the last hour: 0</p>
 <h2>Recent Sentinel-1 acquisitions</h2><ul class="acq"><li>2026-10-24 01:02 UTC</li></ul></main>
 <footer><div class="wrap">Data: Copernicus Sentinel-1 (ESA) &middot; AIS via aisstream.io and the Danish Maritime Authority &middot;
 coastlines, structures and basemap &copy; OpenStreetMap contributors. Flags are candidates for review, not accusations.</div></footer>

diff --git a/docs/demo/index.html b/docs/demo/index.html
@@ -83,7 +83,7 @@ footer{border-top:1px solid var(--line);padding:18px 0 28px;font:12px/1.6 var(--
   <div><div class="kicker">SAR &times; AIS &middot; MARITIME AWARENESS</div><div class="title">DARK VESSEL <b>DETECTION</b></div></div></a>
  <div class="status"><span class="pill"><span class="dot live"></span>AIS FEED <strong>LIVE</strong></span>
   <span class="pill">UTC <strong id="utc">--:--:--</strong></span>
-  <span class="pill">UPDATED <strong>02 Nov 12:42</strong></span></div>
+  <span class="pill">UPDATED <strong>02 Nov 12:58</strong></span></div>
 </div><nav class="tabs"><a class="" href="../index.html">OVERVIEW</a><a class="" href="../mumbai/index.html">MUMBAI</a><a class="" href="../denmark/index.html">DENMARK</a><a class="" href="../nn/index.html">NEURAL NET</a><a class="on" href="../demo/index.html">SIMULATION</a></nav></div></header>
 <main class="wrap"><div class="coords">SIMULATION // SYNTHETIC SCENES WITH KNOWN GROUND TRUTH</div>
 <h1>Simulation: the whole pipeline with a known answer</h1>

diff --git a/docs/nn/index.html b/docs/nn/index.html
@@ -83,7 +83,7 @@ footer{border-top:1px solid var(--line);padding:18px 0 28px;font:12px/1.6 var(--
   <div><div class="kicker">SAR &times; AIS &middot; MARITIME AWARENESS</div><div class="title">DARK VESSEL <b>DETECTION</b></div></div></a>
  <div class="status"><span class="pill"><span class="dot live"></span>AIS FEED <strong>LIVE</strong></span>
   <span class="pill">UTC <strong id="utc">--:--:--</strong></span>
-  <span class="pill">UPDATED <strong>02 Nov 12:42</strong></span></div>
+  <span class="pill">UPDATED <strong>02 Nov 12:58</strong></span></div>
 </div><nav class="tabs"><a class="" href="../index.html">OVERVIEW</a><a class="" href="../mumbai/index.html">MUMBAI</a><a class="" href="../denmark/index.html">DENMARK</a><a class="on" href="../nn/index.html">NEURAL NET</a><a class="" href="../demo/index.html">SIMULATION</a></nav></div></header>
 <main class="wrap"><div class="coords">NEURAL NETWORK // SHIPCNN</div>
 <h1>ShipCNN: our own convolutional network that decides "is this a ship?"</h1>
